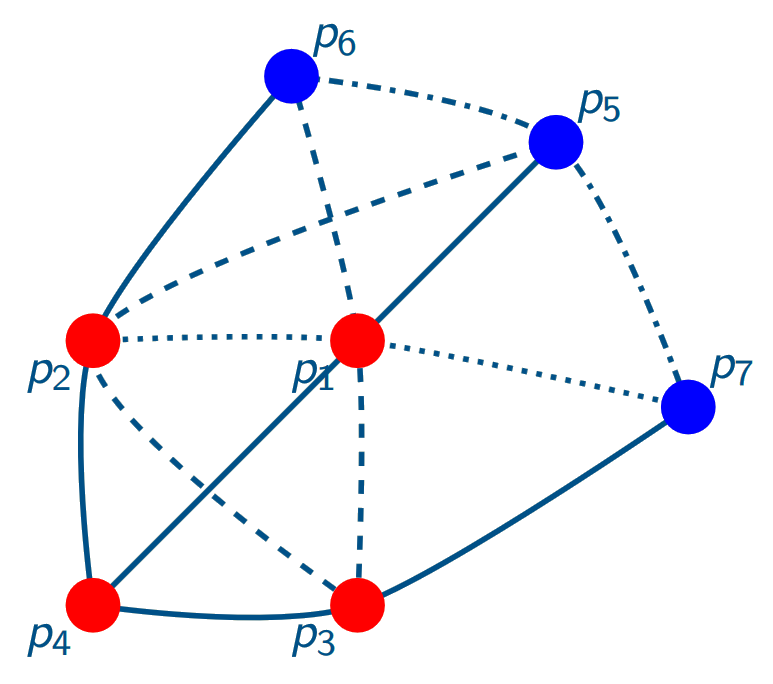
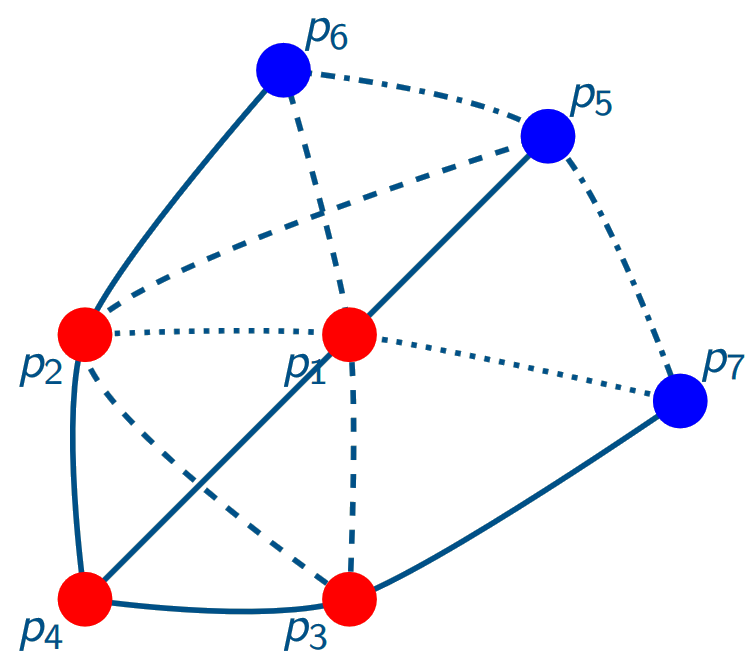
Initial matroids page

diff --git a/matroids/index.html b/matroids/index.html
@@ -2,7 +2,7 @@
 <html>
 <head>
   <!-- Here is the source for the template: https://www.w3schools.com/w3css/tryw3css_templates_portfolio.htm -->
-  <title>Stable Tamari Lattice</title>
+  <title>Matroids</title>
   <meta charset="UTF-8">
   <meta name="viewport" content="width=device-width, initial-scale=1">
 
@@ -34,6 +34,8 @@
   </div>
   <div class="w3-bar-block">
     <a href="../" onclick="w3_close()" class="w3-bar-item w3-button w3-padding"><i class="fa fa-arrow-left fa-fw w3-margin-right"></i>GO HOME</a> 
+    <a href="#background" onclick="w3_close()" class="w3-bar-item w3-button w3-padding"><i class="fa fa-book fa-fw w3-margin-right"></i>Background</a>
+    <a href="#results" onclick="w3_close()" class="w3-bar-item w3-button w3-padding"><i class="fa fa-pencil fa-fw w3-margin-right"></i>Results</a> 
   </div>
 </nav>
 
@@ -49,8 +51,126 @@
     </div>
   </header>
 
-  <div class="w3-container w3-padding-large">
-    Under construction.    
+  <div id="background" class="w3-container w3-padding-large">
+    <h2><b>Background</b></h2>
+    <div class="w3-container w3-padding-large">
+      <h4><b>Definitions</b></h4>
+      <p>
+        A matroid is a combinatorial structure that abstracts the notion of linear independence.
+        More formally, a <em>matroid</em> \( M \) on a finite <em>ground set</em> \( E \) with <em>independent sets</em> \( \mathcal{I} \subseteq 2^E \) is a pair \( M = (E,\mathcal{I} \) satisfying the following properties:
+        <ol>
+          <li>\( \emptyset \in \mathcal{I} \).</li>
+          <li>If \( J \subseteq I \) and \( I \in \mathcal{I} \), then \( J \in \mathcal{I} \).</li>
+          <li>If \( I,J \in \mathcal{I} \) and \( \lvert I \rvert > \lvert J \rvert \), then there exists an element \( e \in I \setminus J \) such that \( J \cup \{ e \} \in \mathcal{I} \).</li>
+        </ol>
+        In other words, a matroid is a simplicial complex satisfying an additional <em>exchange property</em>; this is reminiscent of the story in linear algebra where \( E \) is a set of vectors and \( \mathcal{I} \) consists of the linearly independent sets obtained using those vectors.
+        <ul>
+          <li>
+            Elements of \( \mathcal{I} \) are called <em>independent sets</em>; maximal ones are called <em>bases</em>.
+          </li>
+          <li>
+            Sets not in \( \mathcal{I} \) are called <em>dependent sets</em>; minimal ones are called <em>circuits</em>.
+          </li>
+          <li>
+            The <em>rank</em> of a set \( F \subseteq E \) is the cardinality of a maximal indpendent set in \( F \), and is denoted \( \text{rk}(A) \).
+            The <em>closure</em> of \( F \) is the set \[ \overline{F} = \{ e \in E \, \mid \, \text{rk}(F \cup \{ e \}) = \text{rk}(F) \}. \]
+            If \( F \) satisfies \( \overline{F} = F \), then it is called a <em>flat</em> of \( M \).
+          </li>
+          <li>A matroid \( M \) is called <em>simple</em> if it has no \( 1 \)- or \( 2 \)-element circuits.</li>
+        </ul>
+      </p>
+      <p>
+        For a matroid \( M \), a remarkable fact is that the flats of \( M \) form a lattice \( \mathcal{L}(M) \), and if we further assume that \( M \) is simple, this lattice is a <em>geometric</em> lattice.
+        In fact, a lattice is geometric if and only if it is the <em>lattice of flats</em> of a matroid.
+        So, when \( M \) is a simple matroid, its lattice of flats \( \mathcal{L}(M) \) comes equipped with a meaningful and natural rank function.
+      </p>
+      <h4><b>Example</b></h4>
+      <p>
+        Let \( \mathbb{F} = \text{GF}(2) \) and consider the set \( E \) of points in \( \mathbb{F}^3 \) given as the columns of the following matrix:
+        \[ \begin{pmatrix} p_1 & \dots & p_7 \end{pmatrix} = \begin{pmatrix} 1 & 1 & 1 & 1 & 0 & 0 & 0 \\ 1 & 1 & 0 & 0 & 1 & 1 & 0 \\ 1 & 0 & 1 & 0 & 1 & 0 & 1 \end{pmatrix}. \]
+        Here, the independent sets are given by subsets of \( E \) which are linearly independent.
+        Thus, \( M = (E,\mathcal{I}) \) forms a matroid; this matroid is called the <em>Fano plane</em> or also the projective geometry of rank \( 2 \) of over \( \mathbb{F} \), denoted \( \text{PG}(2,2) \).
+      </p>
+      <div class="w3-container w3-padding-large">
+        <img src="../images/matroids/pg22.png" alt="PG(2,2)" style="width:49%; text-align:center" class="w3-round">
+        <img src="../images/matroids/fano.png" alt="fano" style="width:49%; text-align:center" class="w3-round">
+        <p>
+          The Fano plane presented in two ways.
+          Points in red lie on an affine patch whereas points in blue lie on the hyperplane at infinity.
+        </p>
+      </div>
+      <p>
+        In this setting, the closure corresponds to taking the span of a set of vectors.
+        The lattice of flats is then
+      </p>
+      <div class="w3-container w3-padding-large" style="text-align:center">
+        <img src="../images/matroids/lattice.png" alt="lattice of flats" style="width:50%;" class="w3-round">
+      </div>
+      <p>
+        The rank function is given by the vector space dimension of the flat, so we can stratify the lattice by rank:
+        \[
+          \begin{array}{|l||c|c|c|c|}
+            \hline
+            \text{rank} & 0 & 1 & 2 & 3 \\
+            \hline
+            \# \mathcal{L}^i & 1 & 7 & 7 & 1 \\
+            \hline
+          \end{array}
+        \]
+      </p>
+    </div>
+  </div>
+  <hr>
+  <div id="results" class="w3-container w3-padding-large">
+    <h2><b>Results</b></h2>
+    <p>
+      Let \( M = (E,\mathcal{I}) \) be a simple matroid and let \( \mathbb{K} \) be a field of characteristic \( 0 \).
+      The <em>graded Möbius algebra</em> of \( M \) is the standard graded \( \mathbb{K} \)-algebra
+      \[ \textsf{B}_M = \bigoplus_{F \in \mathcal{L}(M)} \mathbb{K} x_F, \] 
+      with multiplication 
+      \[ 
+        x_F x_G = 
+        \begin{cases} 
+          x_{F \vee G} & \text{if } \text{rk}(F \vee G) = \text{rk}(F) + \text{rk}(G) \\
+          0 & \text{otherwise}
+        \end{cases}.
+      \]
+      A result of <a class="weblink" href="https://link.springer.com/article/10.1007/s00029-025-01029-6" target="_blank">LaClair-Mastroeni-McCullough-Peeva</a> shows that it has a presentation
+      \[
+        \textsf{B}_M \cong \frac{\mathbb{K}[y_i \, \colon \, i \in E]}{(y_i^2 \, \colon \, i \in E) + (y_{C \setminus i} - y_{C \setminus j} \, \colon \, C \in \mathcal{C}(M))}.
+      \]
+
+      <b>Proposition</b>: Let \( M \) be a simple matroid with \( \textsf{B}_M \) its graded Möbius algebra.
+      Then
+      <ol>
+        <li>The Hilbert function of \( \textsf{B}_M \) is the rank-generating function of \( \mathcal{L}(M) \).</li>
+        <li>The Castelnuovo-Mumford regularity of \( \textsf{B}_M \) is given by \( \text{reg} \, \textsf{B}_M = \text{rk} \, M = \text{rk} \, \mathcal{L}(M) \).</li>
+        <li>The projective dimension of \( \textsf{B}_M \) is given by \( \text{pdim} \, \textsf{B}_M = \lvert E \rvert \).</li>
+      </ol>
+    </p>
+    <div class="w3-container w3-padding-large">
+      <h4><b>Koszulness</b></h4>
+      <em>Joint with <a class="weblink" href="https://faculty.sites.iastate.edu/jmccullo/" target="_blank">Jason McCullough</a>.</em>
+      <p>
+        In 2016, <a class="weblink" href="https://www.jstor.org/stable/26174784" target="_blank">Maeno and Numata</a> characterized which matroids have Gorenstein graded Möbius algebras.
+        Using techniques from <a class="weblink" href="https://link.springer.com/article/10.1007/s00029-025-01029-6" target="_blank">LaClair-Mastroeni-McCullough-Peeva</a>, we show that these Gorenstein algebras are also Koszul.
+        We also show that the graded Möbius algebras of affine geometries are quadratic.
+      </p>
+    </div>
+    <div class="w3-container w3-padding-large">
+      <h4><b>Betti numbers</b></h4>
+      <em>Joint with <a class="weblink" href="https://sites.google.com/view/louiza-fouli/home" target="_blank">Louiza Fouli</a>,
+        <a class="weblink" href="https://www.selvikara.com/" target="_blank">Selvi Kara</a>,
+        <a class="weblink" href="https://sites.google.com/view/adamlaclair/home" target="_blank">Adam LaClair</a>,
+        <a class="weblink" href="https://faculty.sites.iastate.edu/jmccullo/" target="_blank">Jason McCullough</a>,
+        Vinh Nguyen,
+        <a class="weblink" href="https://soloist.ai/combinatola" target="_blank">Aleksandra Sobieska</a>,
+        and <a class="weblink" href="https://sites.google.com/view/prajwal-udanshive/" target="_blank">Prajwal Udanshive</a>.
+      </em>
+      <p>
+        We compute explicit formulas for the graded Betti numbers of uniform matroids using techinques from liason theory.
+      </p>
+    </div>
   </div>
 
   <!-- Footer -->
